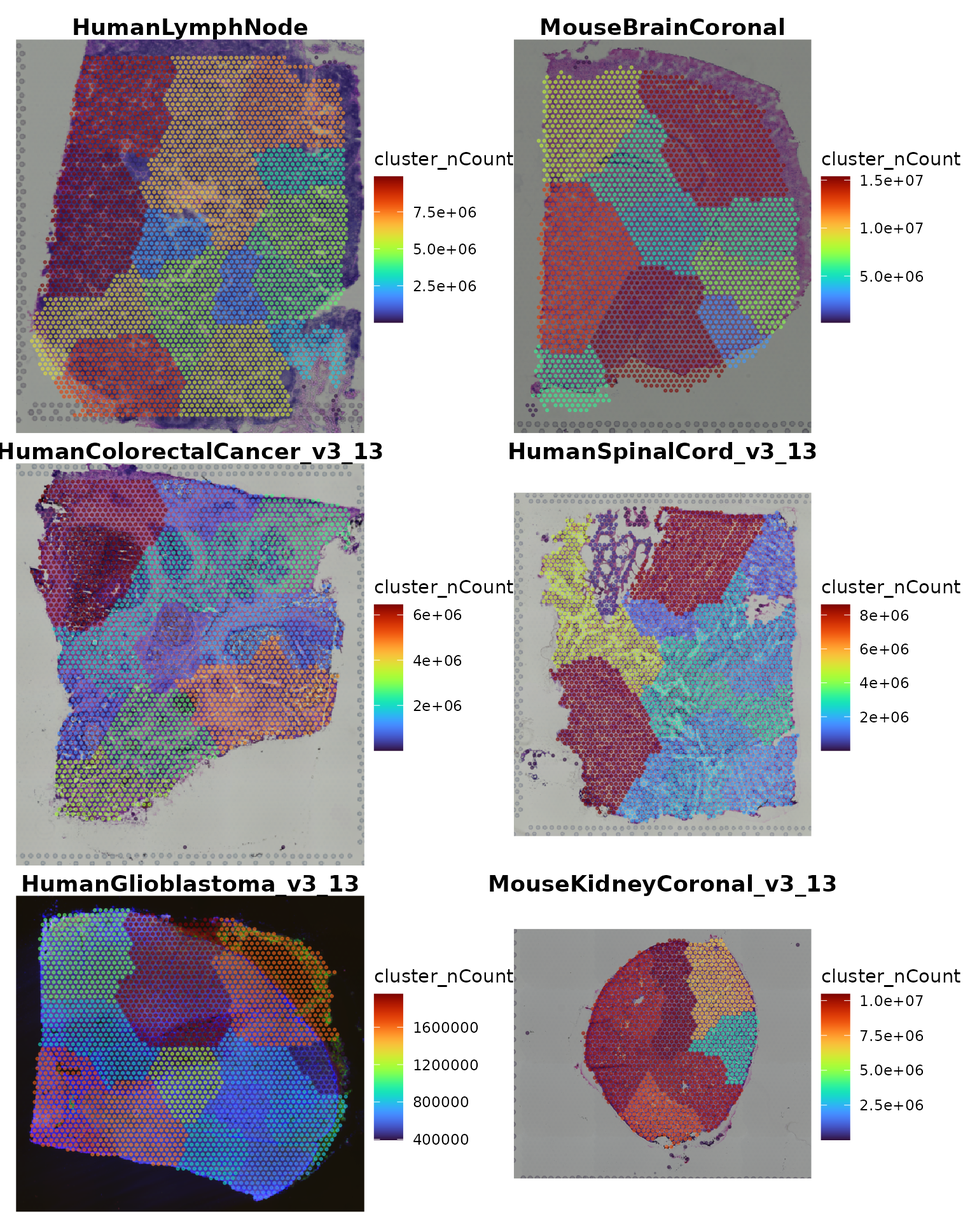
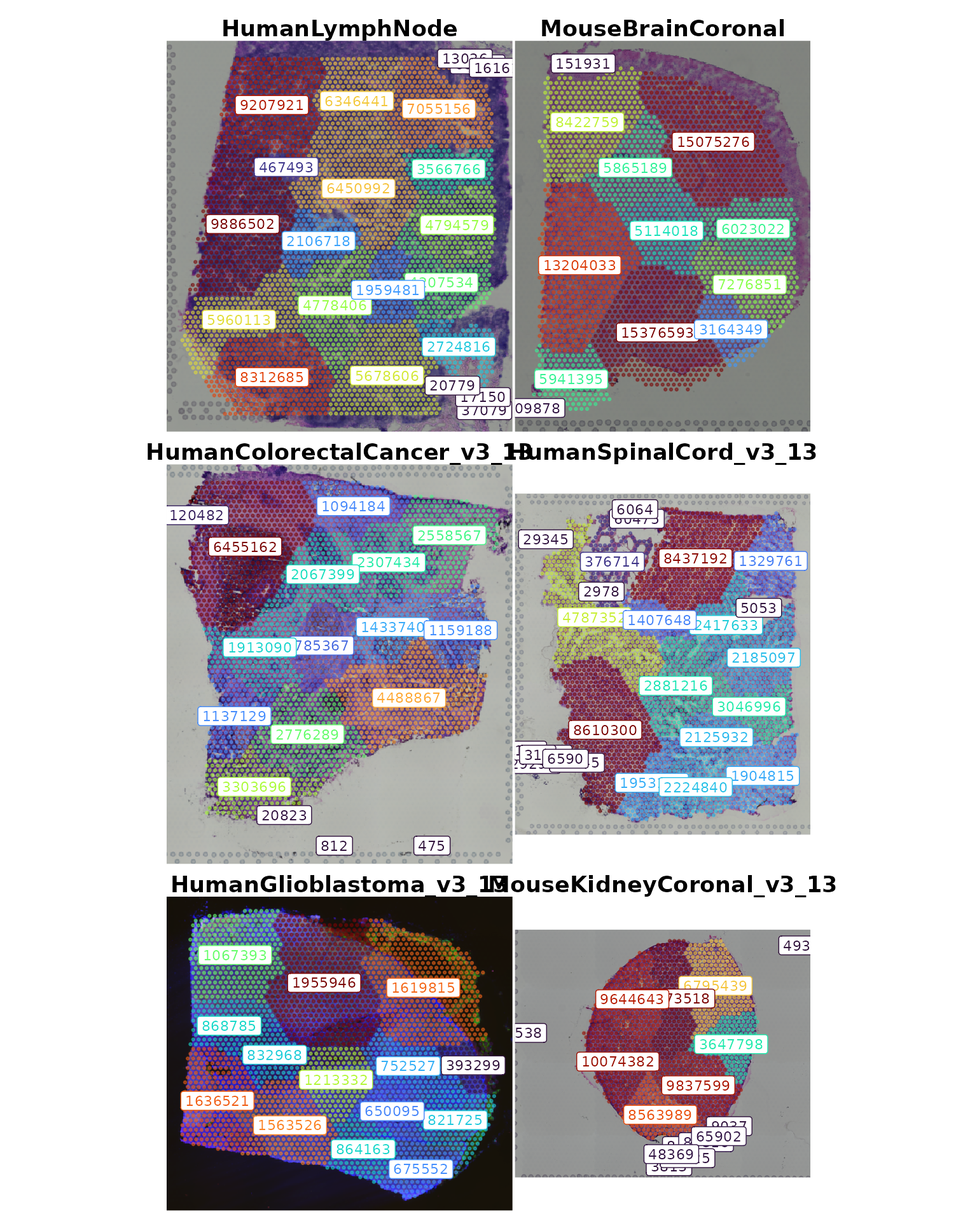
Deploying to gh-pages from @ Sanin-Lab/SpotGraphs@6cec9ab61a705c6ec7c7e6712106beb7f23dd2fe 🚀

diff --git a/articles/ThresholdTests.html b/articles/ThresholdTests.html
@@ -159,7 +159,11 @@ distributions<a class="anchor" aria-label="anchor" href="#load-several-datasets-
 <span>    </span>
 <span>    <span class="va">plt</span> <span class="op">=</span> <span class="va">plt</span> <span class="op">+</span></span>
 <span>      <span class="fu"><a href="https://ggplot2.tidyverse.org/reference/geom_text.html" class="external-link">geom_label</a></span><span class="op">(</span>data <span class="op">=</span> <span class="va">df.labels</span>, </span>
-<span>                 <span class="fu"><a href="https://ggplot2.tidyverse.org/reference/aes_.html" class="external-link">aes_string</a></span><span class="op">(</span>x<span class="op">=</span><span class="st">'x_axis'</span>, y<span class="op">=</span><span class="st">'y_axis'</span>, label <span class="op">=</span> <span class="va">feature</span>, color<span class="op">=</span><span class="va">feature</span><span class="op">)</span><span class="op">)</span></span>
+<span>                 size <span class="op">=</span> <span class="fl">3</span>,</span>
+<span>                 <span class="fu"><a href="https://ggplot2.tidyverse.org/reference/aes_.html" class="external-link">aes_string</a></span><span class="op">(</span>x<span class="op">=</span><span class="st">'x_axis'</span>,</span>
+<span>                            y<span class="op">=</span><span class="st">'y_axis'</span>, </span>
+<span>                            label <span class="op">=</span> <span class="va">feature</span>, </span>
+<span>                            color<span class="op">=</span><span class="va">feature</span><span class="op">)</span><span class="op">)</span></span>
 <span>  <span class="op">}</span></span>
 <span>  <span class="kw"><a href="https://rdrr.io/r/base/function.html" class="external-link">return</a></span><span class="op">(</span><span class="va">plt</span><span class="op">)</span></span>
 <span><span class="op">}</span></span></code></pre></div>
@@ -169,96 +173,116 @@ distributions<a class="anchor" aria-label="anchor" href="#load-several-datasets-
 </h3>
 <div class="sourceCode" id="cb6"><pre class="downlit sourceCode r">
 <code class="sourceCode R"><span><span class="va">plt.ncount</span> <span class="op">=</span> <span class="fu"><a href="https://rdrr.io/r/base/lapply.html" class="external-link">lapply</a></span><span class="op">(</span><span class="fu"><a href="https://rdrr.io/r/base/names.html" class="external-link">names</a></span><span class="op">(</span><span class="va">spe.ls</span><span class="op">)</span>, <span class="kw">function</span><span class="op">(</span><span class="va">ds.name</span><span class="op">)</span> <span class="op">{</span></span>
-<span>  <span class="fu">ImageFeature</span><span class="op">(</span><span class="va">spe.ls</span><span class="op">[[</span><span class="va">ds.name</span><span class="op">]</span><span class="op">]</span>, feature <span class="op">=</span> <span class="st">'cluster_nCount'</span>, label <span class="op">=</span> <span class="cn">F</span><span class="op">)</span> <span class="op">+</span></span>
+<span>  <span class="fu">ImageFeature</span><span class="op">(</span><span class="va">spe.ls</span><span class="op">[[</span><span class="va">ds.name</span><span class="op">]</span><span class="op">]</span>, feature <span class="op">=</span> <span class="st">'cluster_nCount'</span>, label <span class="op">=</span> <span class="cn">T</span><span class="op">)</span> <span class="op">+</span></span>
 <span>    <span class="fu"><a href="https://ggplot2.tidyverse.org/reference/labs.html" class="external-link">ggtitle</a></span><span class="op">(</span><span class="va">ds.name</span><span class="op">)</span> <span class="op">+</span></span>
-<span>    <span class="fu"><a href="https://ggplot2.tidyverse.org/reference/theme.html" class="external-link">theme</a></span><span class="op">(</span>plot.title <span class="op">=</span> <span class="fu"><a href="https://ggplot2.tidyverse.org/reference/element.html" class="external-link">element_text</a></span><span class="op">(</span>hjust <span class="op">=</span> <span class="fl">0.5</span>, face <span class="op">=</span> <span class="st">'bold'</span><span class="op">)</span><span class="op">)</span></span>
+<span>    <span class="fu"><a href="https://ggplot2.tidyverse.org/reference/theme.html" class="external-link">theme</a></span><span class="op">(</span>plot.title <span class="op">=</span> <span class="fu"><a href="https://ggplot2.tidyverse.org/reference/element.html" class="external-link">element_text</a></span><span class="op">(</span>hjust <span class="op">=</span> <span class="fl">0.5</span>, face <span class="op">=</span> <span class="st">'bold'</span><span class="op">)</span>,</span>
+<span>          legend.position <span class="op">=</span> <span class="st">'none'</span>,</span>
+<span>          plot.margin <span class="op">=</span> <span class="fu"><a href="https://ggplot2.tidyverse.org/reference/element.html" class="external-link">margin</a></span><span class="op">(</span><span class="fu"><a href="https://rdrr.io/r/base/rep.html" class="external-link">rep</a></span><span class="op">(</span><span class="fl">0.75</span>,<span class="fl">4</span><span class="op">)</span>,<span class="st">'cm'</span><span class="op">)</span><span class="op">)</span></span>
 <span><span class="op">}</span><span class="op">)</span></span>
 <span></span>
 <span><span class="fu"><a href="https://patchwork.data-imaginist.com/reference/wrap_plots.html" class="external-link">wrap_plots</a></span><span class="op">(</span><span class="va">plt.ncount</span>, ncol <span class="op">=</span> <span class="fl">2</span><span class="op">)</span></span></code></pre></div>
 <p><img src="ThresholdTests_files/figure-html/Plot%20counts%20on%20tissue%20images-1.png" width="768"></p>
 </div>
 <div class="section level3">
-<h3 id="extract-cluster_ncount-per-dataset">Extract cluster_nCount per dataset<a class="anchor" aria-label="anchor" href="#extract-cluster_ncount-per-dataset"></a>
-</h3>
-<div class="sourceCode" id="cb7"><pre class="downlit sourceCode r">
-<code class="sourceCode R"><span><span class="va">cluster_nCount.ls</span> <span class="op">=</span> <span class="fu"><a href="https://rdrr.io/r/base/lapply.html" class="external-link">lapply</a></span><span class="op">(</span><span class="va">res.ls</span>, <span class="kw">function</span><span class="op">(</span><span class="va">res</span><span class="op">)</span> <span class="op">{</span></span>
-<span>  <span class="fu"><a href="https://rdrr.io/r/base/unique.html" class="external-link">unique</a></span><span class="op">(</span><span class="va">res</span><span class="op">$</span><span class="va">cluster_nCount</span><span class="op">)</span></span>
-<span><span class="op">}</span><span class="op">)</span></span></code></pre></div>
-</div>
-<div class="section level3">
-<h3 id="plot-density-distributions-for-each-slide">Plot density distributions for each slide<a class="anchor" aria-label="anchor" href="#plot-density-distributions-for-each-slide"></a>
-</h3>
-<div class="sourceCode" id="cb8"><pre class="downlit sourceCode r">
-<code class="sourceCode R"><span><span class="va">den.ls</span> <span class="op">=</span> <span class="fu"><a href="https://rdrr.io/r/base/lapply.html" class="external-link">lapply</a></span><span class="op">(</span><span class="va">cluster_nCount.ls</span>, <span class="kw">function</span><span class="op">(</span><span class="va">xx</span><span class="op">)</span> <span class="op">{</span></span>
-<span>  <span class="va">den</span> <span class="op">=</span> <span class="fu"><a href="https://rdrr.io/r/stats/density.html" class="external-link">density</a></span><span class="op">(</span><span class="fu"><a href="https://rdrr.io/r/base/Log.html" class="external-link">log10</a></span><span class="op">(</span><span class="va">xx</span><span class="op">)</span><span class="op">)</span></span>
-<span><span class="op">}</span><span class="op">)</span></span>
-<span></span>
-<span><span class="va">density_plots</span> <span class="op">=</span> <span class="fu"><a href="https://rdrr.io/r/base/lapply.html" class="external-link">lapply</a></span><span class="op">(</span><span class="fu"><a href="https://rdrr.io/r/base/names.html" class="external-link">names</a></span><span class="op">(</span><span class="va">den.ls</span><span class="op">)</span>, <span class="kw">function</span><span class="op">(</span><span class="va">ds.name</span><span class="op">)</span> <span class="op">{</span></span>
-<span>  <span class="va">den</span> <span class="op">=</span> <span class="va">den.ls</span><span class="op">[[</span><span class="va">ds.name</span><span class="op">]</span><span class="op">]</span></span>
-<span>  <span class="va">df</span> <span class="op">=</span> <span class="fu"><a href="https://rdrr.io/r/base/data.frame.html" class="external-link">data.frame</a></span><span class="op">(</span>x <span class="op">=</span> <span class="va">den</span><span class="op">$</span><span class="va">x</span>, y <span class="op">=</span> <span class="va">den</span><span class="op">$</span><span class="va">y</span><span class="op">)</span></span>
-<span>  <span class="fu"><a href="https://ggplot2.tidyverse.org/reference/ggplot.html" class="external-link">ggplot</a></span><span class="op">(</span><span class="va">df</span>, <span class="fu"><a href="https://ggplot2.tidyverse.org/reference/aes.html" class="external-link">aes</a></span><span class="op">(</span>x <span class="op">=</span> <span class="va">x</span>, y <span class="op">=</span> <span class="va">y</span><span class="op">)</span><span class="op">)</span> <span class="op">+</span></span>
-<span>    <span class="fu"><a href="https://ggplot2.tidyverse.org/reference/geom_path.html" class="external-link">geom_line</a></span><span class="op">(</span><span class="op">)</span> <span class="op">+</span></span>
-<span>    <span class="fu"><a href="https://ggplot2.tidyverse.org/reference/labs.html" class="external-link">ggtitle</a></span><span class="op">(</span><span class="va">ds.name</span><span class="op">)</span> <span class="op">+</span></span>
-<span>    <span class="fu"><a href="https://ggplot2.tidyverse.org/reference/ggtheme.html" class="external-link">theme_bw</a></span><span class="op">(</span><span class="op">)</span> <span class="op">+</span></span>
-<span>    <span class="fu"><a href="https://ggplot2.tidyverse.org/reference/theme.html" class="external-link">theme</a></span><span class="op">(</span>plot.title <span class="op">=</span> <span class="fu"><a href="https://ggplot2.tidyverse.org/reference/element.html" class="external-link">element_text</a></span><span class="op">(</span>hjust <span class="op">=</span> <span class="fl">0.5</span>, face <span class="op">=</span> <span class="st">'bold'</span><span class="op">)</span><span class="op">)</span></span>
-<span><span class="op">}</span><span class="op">)</span></span>
-<span></span>
-<span><span class="fu"><a href="https://patchwork.data-imaginist.com/reference/wrap_plots.html" class="external-link">wrap_plots</a></span><span class="op">(</span><span class="va">density_plots</span>, ncol <span class="op">=</span> <span class="fl">2</span><span class="op">)</span></span></code></pre></div>
-<p><img src="ThresholdTests_files/figure-html/unnamed-chunk-3-1.png" width="672"></p>
-</div>
-<div class="section level3">
 <h3 id="calculate-intervals-with-various-strategies">Calculate intervals with various strategies<a class="anchor" aria-label="anchor" href="#calculate-intervals-with-various-strategies"></a>
 </h3>
-<div class="sourceCode" id="cb9"><pre class="downlit sourceCode r">
-<code class="sourceCode R"><span></span>
-<span><span class="co"># Using 5th and 75th percentiles as min/max</span></span>
-<span><span class="va">interval_tests</span> <span class="op">=</span> <span class="fu"><a href="https://rdrr.io/r/base/lapply.html" class="external-link">lapply</a></span><span class="op">(</span><span class="va">den.ls</span>, <span class="kw">function</span><span class="op">(</span><span class="va">den</span><span class="op">)</span> <span class="op">{</span></span>
-<span>  <span class="va">int.perc</span> <span class="op">=</span> <span class="fu"><a href="https://rdrr.io/r/base/c.html" class="external-link">c</a></span><span class="op">(</span><span class="fu"><a href="https://rdrr.io/r/stats/quantile.html" class="external-link">quantile</a></span><span class="op">(</span><span class="va">den</span><span class="op">$</span><span class="va">x</span>, <span class="fl">0.05</span><span class="op">)</span>, <span class="fu"><a href="https://rdrr.io/r/stats/quantile.html" class="external-link">quantile</a></span><span class="op">(</span><span class="va">den</span><span class="op">$</span><span class="va">x</span>, <span class="fl">0.75</span><span class="op">)</span><span class="op">)</span></span>
-<span>  <span class="va">int.mean</span> <span class="op">=</span> <span class="fu"><a href="https://rdrr.io/r/base/c.html" class="external-link">c</a></span><span class="op">(</span><span class="fl">0</span>, <span class="fu"><a href="https://rdrr.io/r/base/mean.html" class="external-link">mean</a></span><span class="op">(</span><span class="va">den</span><span class="op">$</span><span class="va">x</span><span class="op">)</span><span class="op">)</span></span>
-<span>  </span>
-<span>  <span class="co"># thres.perc = approxfun(den$x, den$y) %&gt;% optimise(interval=int.perc)</span></span>
-<span>  <span class="co"># thres.perc = 10^(thres.perc$minimum)</span></span>
-<span>  <span class="co"># </span></span>
-<span>  <span class="co"># thres.mean = approxfun(den$x, den$y) %&gt;% optimise(interval=int.mean)</span></span>
-<span>  <span class="co"># thres.mean = 10^(thres.mean$minimum)</span></span>
-<span>  </span>
-<span>  <span class="va">df</span> <span class="op">=</span> <span class="fu"><a href="https://rdrr.io/r/base/data.frame.html" class="external-link">data.frame</a></span><span class="op">(</span>x <span class="op">=</span> <span class="va">den</span><span class="op">$</span><span class="va">x</span>, y <span class="op">=</span> <span class="va">den</span><span class="op">$</span><span class="va">y</span><span class="op">)</span></span>
-<span>  <span class="va">plt.base</span> <span class="op">=</span> <span class="fu"><a href="https://ggplot2.tidyverse.org/reference/ggplot.html" class="external-link">ggplot</a></span><span class="op">(</span><span class="va">df</span>, <span class="fu"><a href="https://ggplot2.tidyverse.org/reference/aes.html" class="external-link">aes</a></span><span class="op">(</span>x <span class="op">=</span> <span class="va">x</span>, y <span class="op">=</span> <span class="va">y</span><span class="op">)</span><span class="op">)</span> <span class="op">+</span></span>
-<span>    <span class="fu"><a href="https://ggplot2.tidyverse.org/reference/geom_path.html" class="external-link">geom_line</a></span><span class="op">(</span><span class="op">)</span> <span class="op">+</span></span>
-<span>    <span class="fu"><a href="https://ggplot2.tidyverse.org/reference/coord_cartesian.html" class="external-link">coord_cartesian</a></span><span class="op">(</span>xlim <span class="op">=</span> <span class="fu"><a href="https://rdrr.io/r/base/c.html" class="external-link">c</a></span><span class="op">(</span><span class="fl">0</span>, <span class="cn">NA</span><span class="op">)</span><span class="op">)</span> <span class="op">+</span></span>
-<span>    <span class="fu"><a href="https://ggplot2.tidyverse.org/reference/ggtheme.html" class="external-link">theme_bw</a></span><span class="op">(</span><span class="op">)</span> <span class="op">+</span></span>
-<span>    <span class="fu"><a href="https://ggplot2.tidyverse.org/reference/theme.html" class="external-link">theme</a></span><span class="op">(</span>plot.title <span class="op">=</span> <span class="fu"><a href="https://ggplot2.tidyverse.org/reference/element.html" class="external-link">element_text</a></span><span class="op">(</span>hjust <span class="op">=</span> <span class="fl">0.5</span>, face <span class="op">=</span> <span class="st">'bold'</span><span class="op">)</span>,</span>
-<span>          plot.subtitle <span class="op">=</span> <span class="fu"><a href="https://ggplot2.tidyverse.org/reference/element.html" class="external-link">element_text</a></span><span class="op">(</span>hjust <span class="op">=</span> <span class="fl">0.5</span><span class="op">)</span><span class="op">)</span></span>
-<span>  </span>
-<span>  <span class="va">plt.perc</span> <span class="op">=</span> <span class="va">plt.base</span> <span class="op">+</span> </span>
-<span>    <span class="fu"><a href="https://ggplot2.tidyverse.org/reference/geom_abline.html" class="external-link">geom_vline</a></span><span class="op">(</span>xintercept <span class="op">=</span> <span class="va">int.perc</span>, color <span class="op">=</span> <span class="st">'red'</span><span class="op">)</span></span>
-<span>    <span class="co"># ggtitle(label = 'percentiles',</span></span>
-<span>    <span class="co">#         subtitle = thres.perc)</span></span>
-<span>  <span class="va">plt.mean</span> <span class="op">=</span> <span class="va">plt.base</span> <span class="op">+</span> </span>
-<span>    <span class="fu"><a href="https://ggplot2.tidyverse.org/reference/geom_abline.html" class="external-link">geom_vline</a></span><span class="op">(</span>xintercept <span class="op">=</span> <span class="va">int.mean</span>, color <span class="op">=</span> <span class="st">'red'</span><span class="op">)</span></span>
-<span>    <span class="co"># ggtitle(label = 'mean',</span></span>
-<span>    <span class="co">#         subtitle = thres.mean)</span></span>
-<span>  <span class="kw"><a href="https://rdrr.io/r/base/function.html" class="external-link">return</a></span><span class="op">(</span><span class="fu"><a href="https://patchwork.data-imaginist.com/reference/wrap_plots.html" class="external-link">wrap_plots</a></span><span class="op">(</span><span class="va">plt.perc</span>, <span class="va">plt.mean</span><span class="op">)</span><span class="op">)</span></span>
+<div class="sourceCode" id="cb7"><pre class="downlit sourceCode r">
+<code class="sourceCode R"><span><span class="co"># get count densities of each slide</span></span>
+<span><span class="va">den.ls</span> <span class="op">=</span> <span class="fu"><a href="https://rdrr.io/r/base/lapply.html" class="external-link">lapply</a></span><span class="op">(</span><span class="va">res.ls</span>, <span class="kw">function</span><span class="op">(</span><span class="va">res</span><span class="op">)</span> <span class="op">{</span></span>
+<span>  <span class="va">nCount</span> <span class="op">=</span> <span class="fu"><a href="https://rdrr.io/r/base/unique.html" class="external-link">unique</a></span><span class="op">(</span><span class="va">res</span><span class="op">$</span><span class="va">cluster_nCount</span><span class="op">)</span></span>
+<span>  <span class="va">den</span> <span class="op">=</span> <span class="fu"><a href="https://rdrr.io/r/stats/density.html" class="external-link">density</a></span><span class="op">(</span><span class="fu"><a href="https://rdrr.io/r/base/Log.html" class="external-link">log10</a></span><span class="op">(</span><span class="va">nCount</span><span class="op">)</span><span class="op">)</span></span>
+<span>  <span class="kw"><a href="https://rdrr.io/r/base/function.html" class="external-link">return</a></span><span class="op">(</span><span class="va">den</span><span class="op">)</span></span>
 <span><span class="op">}</span><span class="op">)</span></span>
 <span></span>
-<span><span class="fu"><a href="https://patchwork.data-imaginist.com/reference/wrap_plots.html" class="external-link">wrap_plots</a></span><span class="op">(</span><span class="va">interval_tests</span>, ncol <span class="op">=</span> <span class="fl">2</span><span class="op">)</span></span>
+<span><span class="co"># calculate different thresholds for each slide</span></span>
+<span><span class="va">plt.tests</span> <span class="op">=</span> <span class="fu"><a href="https://rdrr.io/r/base/list.html" class="external-link">list</a></span><span class="op">(</span><span class="op">)</span></span>
+<span><span class="va">thres.perc.ls</span> <span class="op">=</span> <span class="fu"><a href="https://rdrr.io/r/base/list.html" class="external-link">list</a></span><span class="op">(</span><span class="op">)</span></span>
+<span><span class="va">thres.fixed.ls</span> <span class="op">=</span> <span class="fu"><a href="https://rdrr.io/r/base/list.html" class="external-link">list</a></span><span class="op">(</span><span class="op">)</span></span>
 <span></span>
+<span><span class="kw">for</span> <span class="op">(</span><span class="va">ds.name</span> <span class="kw">in</span> <span class="fu"><a href="https://rdrr.io/r/base/names.html" class="external-link">names</a></span><span class="op">(</span><span class="va">den.ls</span><span class="op">)</span><span class="op">)</span> <span class="op">{</span></span>
+<span>  <span class="va">den</span> <span class="op">=</span> <span class="va">den.ls</span><span class="op">[[</span><span class="va">ds.name</span><span class="op">]</span><span class="op">]</span></span>
+<span>  </span>
+<span>  <span class="co"># quantile window</span></span>
+<span>  <span class="va">int.perc</span> <span class="op">=</span> <span class="fu"><a href="https://rdrr.io/r/base/c.html" class="external-link">c</a></span><span class="op">(</span><span class="fu">spatstat.univar</span><span class="fu">::</span><span class="fu"><a href="https://rdrr.io/pkg/spatstat.univar/man/quantile.density.html" class="external-link">quantile.density</a></span><span class="op">(</span><span class="va">den</span>, <span class="fl">0.05</span><span class="op">)</span>, </span>
+<span>               <span class="fu">spatstat.univar</span><span class="fu">::</span><span class="fu"><a href="https://rdrr.io/pkg/spatstat.univar/man/quantile.density.html" class="external-link">quantile.density</a></span><span class="op">(</span><span class="va">den</span>, <span class="fl">0.75</span><span class="op">)</span><span class="op">)</span></span>
+<span>  <span class="va">thres.perc.ls</span><span class="op">[[</span><span class="va">ds.name</span><span class="op">]</span><span class="op">]</span> <span class="op">=</span> <span class="fu"><a href="https://rdrr.io/r/stats/approxfun.html" class="external-link">approxfun</a></span><span class="op">(</span><span class="va">den</span><span class="op">$</span><span class="va">x</span>, <span class="va">den</span><span class="op">$</span><span class="va">y</span><span class="op">)</span> <span class="op"><a href="../reference/pipe.html">%&gt;%</a></span> <span class="fu"><a href="https://rdrr.io/r/stats/optimize.html" class="external-link">optimise</a></span><span class="op">(</span>interval<span class="op">=</span><span class="va">int.perc</span><span class="op">)</span></span>
+<span>  <span class="va">thres.perc.ls</span><span class="op">[[</span><span class="va">ds.name</span><span class="op">]</span><span class="op">]</span> <span class="op">=</span> <span class="fl">10</span><span class="op">^</span><span class="op">(</span><span class="va">thres.perc.ls</span><span class="op">[[</span><span class="va">ds.name</span><span class="op">]</span><span class="op">]</span><span class="op">$</span><span class="va">minimum</span><span class="op">)</span></span>
+<span>  </span>
+<span>  <span class="co"># fixed window</span></span>
+<span>  <span class="va">int.fixed</span> <span class="op">=</span> <span class="fu"><a href="https://rdrr.io/r/base/c.html" class="external-link">c</a></span><span class="op">(</span><span class="fu"><a href="https://rdrr.io/r/stats/quantile.html" class="external-link">quantile</a></span><span class="op">(</span><span class="va">den</span><span class="op">$</span><span class="va">x</span>, <span class="fl">0.05</span><span class="op">)</span>, <span class="fu"><a href="https://rdrr.io/r/stats/quantile.html" class="external-link">quantile</a></span><span class="op">(</span><span class="va">den</span><span class="op">$</span><span class="va">x</span>, <span class="fl">0.75</span><span class="op">)</span><span class="op">)</span></span>
+<span>  <span class="va">thres.fixed.ls</span><span class="op">[[</span><span class="va">ds.name</span><span class="op">]</span><span class="op">]</span> <span class="op">=</span> <span class="fu"><a href="https://rdrr.io/r/stats/approxfun.html" class="external-link">approxfun</a></span><span class="op">(</span><span class="va">den</span><span class="op">$</span><span class="va">x</span>, <span class="va">den</span><span class="op">$</span><span class="va">y</span><span class="op">)</span> <span class="op"><a href="../reference/pipe.html">%&gt;%</a></span> <span class="fu"><a href="https://rdrr.io/r/stats/optimize.html" class="external-link">optimise</a></span><span class="op">(</span>interval<span class="op">=</span><span class="va">int.fixed</span><span class="op">)</span></span>
+<span>  <span class="va">thres.fixed.ls</span><span class="op">[[</span><span class="va">ds.name</span><span class="op">]</span><span class="op">]</span> <span class="op">=</span> <span class="fl">10</span><span class="op">^</span><span class="op">(</span><span class="va">thres.fixed.ls</span><span class="op">[[</span><span class="va">ds.name</span><span class="op">]</span><span class="op">]</span><span class="op">$</span><span class="va">minimum</span><span class="op">)</span></span>
+<span>  </span>
+<span>  <span class="co"># create data frame for plotting</span></span>
+<span>  <span class="va">df</span> <span class="op">=</span> <span class="fu"><a href="https://rdrr.io/r/base/data.frame.html" class="external-link">data.frame</a></span><span class="op">(</span>x <span class="op">=</span> <span class="va">den</span><span class="op">$</span><span class="va">x</span>, y <span class="op">=</span> <span class="va">den</span><span class="op">$</span><span class="va">y</span><span class="op">)</span></span>
+<span>  </span>
+<span>  <span class="co"># create plots</span></span>
+<span>  <span class="va">plt.base</span> <span class="op">=</span> <span class="fu"><a href="https://ggplot2.tidyverse.org/reference/ggplot.html" class="external-link">ggplot</a></span><span class="op">(</span><span class="va">df</span>, <span class="fu"><a href="https://ggplot2.tidyverse.org/reference/aes.html" class="external-link">aes</a></span><span class="op">(</span>x <span class="op">=</span> <span class="va">x</span>, y <span class="op">=</span> <span class="va">y</span><span class="op">)</span><span class="op">)</span> <span class="op">+</span></span>
+<span>    <span class="fu"><a href="https://ggplot2.tidyverse.org/reference/geom_path.html" class="external-link">geom_line</a></span><span class="op">(</span><span class="op">)</span> <span class="op">+</span></span>
+<span>    <span class="fu"><a href="https://ggplot2.tidyverse.org/reference/ggtheme.html" class="external-link">theme_bw</a></span><span class="op">(</span><span class="op">)</span> <span class="op">+</span></span>
+<span>    <span class="fu"><a href="https://ggplot2.tidyverse.org/reference/theme.html" class="external-link">theme</a></span><span class="op">(</span>plot.title <span class="op">=</span> <span class="fu"><a href="https://ggplot2.tidyverse.org/reference/element.html" class="external-link">element_text</a></span><span class="op">(</span>hjust <span class="op">=</span> <span class="fl">0.5</span><span class="op">)</span><span class="op">)</span></span>
+<span>  </span>
+<span>  <span class="va">plt.perc</span> <span class="op">=</span> <span class="va">plt.base</span> <span class="op">+</span> </span>
+<span>    <span class="fu"><a href="https://ggplot2.tidyverse.org/reference/geom_abline.html" class="external-link">geom_vline</a></span><span class="op">(</span>xintercept <span class="op">=</span> <span class="va">int.perc</span>, color <span class="op">=</span> <span class="st">'red'</span><span class="op">)</span> <span class="op">+</span></span>
+<span>    <span class="fu"><a href="https://ggplot2.tidyverse.org/reference/geom_abline.html" class="external-link">geom_vline</a></span><span class="op">(</span>xintercept <span class="op">=</span> <span class="fu"><a href="https://rdrr.io/r/base/Log.html" class="external-link">log10</a></span><span class="op">(</span><span class="va">thres.perc.ls</span><span class="op">[[</span><span class="va">ds.name</span><span class="op">]</span><span class="op">]</span><span class="op">)</span>, color <span class="op">=</span> <span class="st">'blue'</span><span class="op">)</span> <span class="op">+</span></span>
+<span>    <span class="fu"><a href="https://ggplot2.tidyverse.org/reference/labs.html" class="external-link">ylab</a></span><span class="op">(</span><span class="va">ds.name</span><span class="op">)</span> <span class="op">+</span></span>
+<span>    <span class="fu"><a href="https://ggplot2.tidyverse.org/reference/labs.html" class="external-link">ggtitle</a></span><span class="op">(</span></span>
+<span>      label <span class="op">=</span> <span class="fu"><a href="https://rdrr.io/r/base/paste.html" class="external-link">paste</a></span><span class="op">(</span><span class="st">'thres w/ quantiles int:'</span>, </span>
+<span>                    <span class="fu"><a href="https://rdrr.io/r/base/Round.html" class="external-link">round</a></span><span class="op">(</span><span class="va">thres.perc.ls</span><span class="op">[[</span><span class="va">ds.name</span><span class="op">]</span><span class="op">]</span>, <span class="fl">2</span><span class="op">)</span><span class="op">)</span></span>
+<span>      <span class="op">)</span></span>
+<span>  <span class="va">plt.fixed</span> <span class="op">=</span> <span class="va">plt.base</span> <span class="op">+</span> </span>
+<span>    <span class="fu"><a href="https://ggplot2.tidyverse.org/reference/geom_abline.html" class="external-link">geom_vline</a></span><span class="op">(</span>xintercept <span class="op">=</span> <span class="va">int.fixed</span>, color <span class="op">=</span> <span class="st">'red'</span><span class="op">)</span> <span class="op">+</span></span>
+<span>    <span class="fu"><a href="https://ggplot2.tidyverse.org/reference/geom_abline.html" class="external-link">geom_vline</a></span><span class="op">(</span>xintercept <span class="op">=</span> <span class="fu"><a href="https://rdrr.io/r/base/Log.html" class="external-link">log10</a></span><span class="op">(</span><span class="va">thres.fixed.ls</span><span class="op">[[</span><span class="va">ds.name</span><span class="op">]</span><span class="op">]</span><span class="op">)</span>, color <span class="op">=</span> <span class="st">'blue'</span><span class="op">)</span> <span class="op">+</span></span>
+<span>    <span class="fu"><a href="https://ggplot2.tidyverse.org/reference/labs.html" class="external-link">ggtitle</a></span><span class="op">(</span></span>
+<span>      label <span class="op">=</span> <span class="fu"><a href="https://rdrr.io/r/base/paste.html" class="external-link">paste</a></span><span class="op">(</span><span class="st">'thres w/ fixed int:'</span>, </span>
+<span>                    <span class="fu"><a href="https://rdrr.io/r/base/Round.html" class="external-link">round</a></span><span class="op">(</span><span class="va">thres.fixed.ls</span><span class="op">[[</span><span class="va">ds.name</span><span class="op">]</span><span class="op">]</span>, <span class="fl">2</span><span class="op">)</span><span class="op">)</span></span>
+<span>      <span class="op">)</span> <span class="op">+</span></span>
+<span>    <span class="fu"><a href="https://ggplot2.tidyverse.org/reference/theme.html" class="external-link">theme</a></span><span class="op">(</span>axis.title.y <span class="op">=</span> <span class="fu"><a href="https://ggplot2.tidyverse.org/reference/element.html" class="external-link">element_blank</a></span><span class="op">(</span><span class="op">)</span><span class="op">)</span></span>
+<span>  </span>
+<span>  <span class="va">plt.tests</span><span class="op">[[</span><span class="va">ds.name</span><span class="op">]</span><span class="op">]</span> <span class="op">=</span> <span class="fu"><a href="https://patchwork.data-imaginist.com/reference/wrap_plots.html" class="external-link">wrap_plots</a></span><span class="op">(</span><span class="va">plt.perc</span>, <span class="va">plt.fixed</span><span class="op">)</span></span>
+<span>  </span>
+<span>  <span class="co"># rm(plt.base, plt.perc, plt.fixed, int.perc, int.fixed, df)</span></span>
+<span><span class="op">}</span></span>
 <span></span>
-<span><span class="co"># # helper to calculate threshold, given a vector of transcript counts</span></span>
-<span><span class="co"># get_threshold = function(cluster_nCount) {</span></span>
-<span><span class="co">#   # log the total counts per cluster to smooth out the density</span></span>
-<span><span class="co">#   den = density(log10(cluster_nCount))</span></span>
-<span><span class="co"># </span></span>
-<span><span class="co">#   # define an interval to check for local minima</span></span>
-<span><span class="co">#   int.min = quantile(den$x, 0.05) #previous value of 0 might be to low</span></span>
-<span><span class="co">#   int.max = quantile(den$x, 0.75) #maybe 3rd quantile?</span></span>
-<span><span class="co">#   interval = c(int.min, int.max)</span></span>
-<span><span class="co"># </span></span>
-<span><span class="co">#   # calculate local minima</span></span>
-<span><span class="co">#   thres = approxfun(den$x, den$y) %&gt;% optimise(interval=interval)</span></span>
-<span><span class="co">#   thres = 10^(thres$minimum)</span></span>
-<span><span class="co">#   return(thres)</span></span>
-<span><span class="co"># }</span></span></code></pre></div>
+<span><span class="fu"><a href="https://patchwork.data-imaginist.com/reference/wrap_plots.html" class="external-link">wrap_plots</a></span><span class="op">(</span><span class="va">plt.tests</span>, ncol <span class="op">=</span> <span class="fl">1</span><span class="op">)</span></span></code></pre></div>
+<p><img src="ThresholdTests_files/figure-html/unnamed-chunk-2-1.png" width="672"></p>
+</div>
+<div class="section level3">
+<h3 id="plot-which-spots-would-be-filtered-out-with-each-threshold">Plot which spots would be filtered out with each threshold<a class="anchor" aria-label="anchor" href="#plot-which-spots-would-be-filtered-out-with-each-threshold"></a>
+</h3>
+<div class="sourceCode" id="cb8"><pre class="downlit sourceCode r">
+<code class="sourceCode R"><span><span class="co"># add thresholds to each SpatialExperiment object</span></span>
+<span><span class="kw">for</span> <span class="op">(</span><span class="va">ds.name</span> <span class="kw">in</span> <span class="fu"><a href="https://rdrr.io/r/base/names.html" class="external-link">names</a></span><span class="op">(</span><span class="va">spe.ls</span><span class="op">)</span><span class="op">)</span> <span class="op">{</span></span>
+<span>  <span class="va">thres.perc</span> <span class="op">=</span> <span class="va">spe.ls</span><span class="op">[[</span><span class="va">ds.name</span><span class="op">]</span><span class="op">]</span><span class="op">$</span><span class="va">cluster_nCount</span> <span class="op">&gt;</span> <span class="va">thres.perc.ls</span><span class="op">[[</span><span class="va">ds.name</span><span class="op">]</span><span class="op">]</span></span>
+<span>  <span class="va">thres.fixed</span> <span class="op">=</span> <span class="va">spe.ls</span><span class="op">[[</span><span class="va">ds.name</span><span class="op">]</span><span class="op">]</span><span class="op">$</span><span class="va">cluster_nCount</span> <span class="op">&gt;</span> <span class="va">thres.fixed.ls</span><span class="op">[[</span><span class="va">ds.name</span><span class="op">]</span><span class="op">]</span></span>
+<span>  <span class="va">spe.ls</span><span class="op">[[</span><span class="va">ds.name</span><span class="op">]</span><span class="op">]</span><span class="op">$</span><span class="va">threshold.perc</span> <span class="op">=</span> <span class="va">thres.perc</span> <span class="op"><a href="../reference/pipe.html">%&gt;%</a></span> </span>
+<span>    <span class="fu"><a href="https://rdrr.io/r/base/ifelse.html" class="external-link">ifelse</a></span><span class="op">(</span><span class="st">'pass'</span>, <span class="st">'nopass'</span><span class="op">)</span> <span class="op"><a href="../reference/pipe.html">%&gt;%</a></span> </span>
+<span>    <span class="fu"><a href="https://rdrr.io/r/base/factor.html" class="external-link">factor</a></span><span class="op">(</span>levels <span class="op">=</span> <span class="fu"><a href="https://rdrr.io/r/base/c.html" class="external-link">c</a></span><span class="op">(</span><span class="st">'nopass'</span>, <span class="st">'pass'</span><span class="op">)</span><span class="op">)</span></span>
+<span>  <span class="va">spe.ls</span><span class="op">[[</span><span class="va">ds.name</span><span class="op">]</span><span class="op">]</span><span class="op">$</span><span class="va">threshold.fixed</span> <span class="op">=</span> <span class="va">thres.fixed</span> <span class="op"><a href="../reference/pipe.html">%&gt;%</a></span> </span>
+<span>    <span class="fu"><a href="https://rdrr.io/r/base/ifelse.html" class="external-link">ifelse</a></span><span class="op">(</span><span class="st">'pass'</span>, <span class="st">'nopass'</span><span class="op">)</span> <span class="op"><a href="../reference/pipe.html">%&gt;%</a></span> </span>
+<span>    <span class="fu"><a href="https://rdrr.io/r/base/factor.html" class="external-link">factor</a></span><span class="op">(</span>levels <span class="op">=</span> <span class="fu"><a href="https://rdrr.io/r/base/c.html" class="external-link">c</a></span><span class="op">(</span><span class="st">'nopass'</span>, <span class="st">'pass'</span><span class="op">)</span><span class="op">)</span></span>
+<span>  <span class="fu"><a href="https://rdrr.io/r/base/rm.html" class="external-link">rm</a></span><span class="op">(</span><span class="va">thres.perc</span>, <span class="va">thres.fixed</span><span class="op">)</span></span>
+<span><span class="op">}</span></span>
+<span></span>
+<span><span class="co"># create plots</span></span>
+<span><span class="va">plt.thresholds</span> <span class="op">=</span> <span class="fu"><a href="https://rdrr.io/r/base/lapply.html" class="external-link">lapply</a></span><span class="op">(</span><span class="fu"><a href="https://rdrr.io/r/base/names.html" class="external-link">names</a></span><span class="op">(</span><span class="va">spe.ls</span><span class="op">)</span>, <span class="kw">function</span><span class="op">(</span><span class="va">ds.name</span><span class="op">)</span> <span class="op">{</span></span>
+<span>  <span class="va">plt1</span> <span class="op">=</span> <span class="fu">ImageFeature</span><span class="op">(</span><span class="va">spe.ls</span><span class="op">[[</span><span class="va">ds.name</span><span class="op">]</span><span class="op">]</span>, feature <span class="op">=</span> <span class="st">'threshold.perc'</span>, label <span class="op">=</span> <span class="cn">F</span><span class="op">)</span> <span class="op">+</span></span>
+<span>    <span class="fu"><a href="https://ggplot2.tidyverse.org/reference/scale_manual.html" class="external-link">scale_color_manual</a></span><span class="op">(</span>values <span class="op">=</span> <span class="fu"><a href="https://rdrr.io/r/base/c.html" class="external-link">c</a></span><span class="op">(</span><span class="st">'red'</span>, <span class="st">'grey'</span><span class="op">)</span>, drop <span class="op">=</span> <span class="cn">F</span><span class="op">)</span> <span class="op">+</span></span>
+<span>    <span class="fu"><a href="https://ggplot2.tidyverse.org/reference/labs.html" class="external-link">ggtitle</a></span><span class="op">(</span><span class="va">ds.name</span><span class="op">)</span> <span class="op">+</span></span>
+<span>    <span class="fu"><a href="https://ggplot2.tidyverse.org/reference/theme.html" class="external-link">theme</a></span><span class="op">(</span>plot.title <span class="op">=</span> <span class="fu"><a href="https://ggplot2.tidyverse.org/reference/element.html" class="external-link">element_text</a></span><span class="op">(</span>hjust <span class="op">=</span> <span class="fl">0.5</span>, face <span class="op">=</span> <span class="st">'bold'</span><span class="op">)</span>,</span>
+<span>          legend.position <span class="op">=</span> <span class="st">'none'</span>, </span>
+<span>          plot.margin <span class="op">=</span> <span class="fu"><a href="https://ggplot2.tidyverse.org/reference/element.html" class="external-link">margin</a></span><span class="op">(</span><span class="fu"><a href="https://rdrr.io/r/base/rep.html" class="external-link">rep</a></span><span class="op">(</span><span class="fl">0.75</span>,<span class="fl">4</span><span class="op">)</span>,<span class="st">'cm'</span><span class="op">)</span><span class="op">)</span></span>
+<span>  <span class="va">plt2</span> <span class="op">=</span> <span class="fu">ImageFeature</span><span class="op">(</span><span class="va">spe.ls</span><span class="op">[[</span><span class="va">ds.name</span><span class="op">]</span><span class="op">]</span>, feature <span class="op">=</span> <span class="st">'threshold.fixed'</span>, label <span class="op">=</span> <span class="cn">F</span><span class="op">)</span> <span class="op">+</span></span>
+<span>    <span class="fu"><a href="https://ggplot2.tidyverse.org/reference/scale_manual.html" class="external-link">scale_color_manual</a></span><span class="op">(</span>values <span class="op">=</span> <span class="fu"><a href="https://rdrr.io/r/base/c.html" class="external-link">c</a></span><span class="op">(</span><span class="st">'red'</span>, <span class="st">'grey'</span><span class="op">)</span>, drop <span class="op">=</span> <span class="cn">F</span><span class="op">)</span> <span class="op">+</span></span>
+<span>    <span class="fu"><a href="https://ggplot2.tidyverse.org/reference/labs.html" class="external-link">ggtitle</a></span><span class="op">(</span><span class="va">ds.name</span><span class="op">)</span> <span class="op">+</span></span>
+<span>    <span class="fu"><a href="https://ggplot2.tidyverse.org/reference/theme.html" class="external-link">theme</a></span><span class="op">(</span>plot.title <span class="op">=</span> <span class="fu"><a href="https://ggplot2.tidyverse.org/reference/element.html" class="external-link">element_text</a></span><span class="op">(</span>hjust <span class="op">=</span> <span class="fl">0.5</span>, face <span class="op">=</span> <span class="st">'bold'</span><span class="op">)</span>,</span>
+<span>          legend.position <span class="op">=</span> <span class="st">'none'</span>, </span>
+<span>          plot.margin <span class="op">=</span> <span class="fu"><a href="https://ggplot2.tidyverse.org/reference/element.html" class="external-link">margin</a></span><span class="op">(</span><span class="fu"><a href="https://rdrr.io/r/base/rep.html" class="external-link">rep</a></span><span class="op">(</span><span class="fl">0.75</span>,<span class="fl">4</span><span class="op">)</span>,<span class="st">'cm'</span><span class="op">)</span><span class="op">)</span></span>
+<span>  <span class="kw"><a href="https://rdrr.io/r/base/function.html" class="external-link">return</a></span><span class="op">(</span><span class="fu"><a href="https://patchwork.data-imaginist.com/reference/wrap_plots.html" class="external-link">wrap_plots</a></span><span class="op">(</span><span class="va">plt1</span>, <span class="va">plt2</span>, ncol <span class="op">=</span> <span class="fl">2</span><span class="op">)</span><span class="op">)</span></span>
+<span><span class="op">}</span><span class="op">)</span></span>
+<span></span>
+<span><span class="fu"><a href="https://patchwork.data-imaginist.com/reference/wrap_plots.html" class="external-link">wrap_plots</a></span><span class="op">(</span><span class="va">plt.thresholds</span>, ncol <span class="op">=</span> <span class="fl">1</span><span class="op">)</span></span></code></pre></div>
+<p><img src="ThresholdTests_files/figure-html/unnamed-chunk-3-1.png" width="768"></p>
 </div>
 </div>
   </main><aside class="col-md-3"><nav id="toc" aria-label="Table of contents"><h2>On this page</h2>

diff --git a/articles/SpotGraphs.html b/articles/SpotGraphs.html
@@ -123,10 +123,10 @@ the spots on our slide.</p>
 <span></span>
 <span><span class="va">ig</span> <span class="op">=</span> <span class="fu"><a href="../reference/SpotGraph.html">SpotGraph</a></span><span class="op">(</span>coord <span class="op">=</span> <span class="va">coord</span><span class="op">)</span></span>
 <span><span class="va">ig</span></span>
-<span><span class="co">#&gt; IGRAPH 4741dd6 UNW- 1185 3189 -- </span></span>
+<span><span class="co">#&gt; IGRAPH dd892ca UNW- 1185 3189 -- </span></span>
 <span><span class="co">#&gt; + attr: name (v/c), coord_x (v/n), coord_y (v/n), is_boundary (v/l),</span></span>
 <span><span class="co">#&gt; | weight (e/n)</span></span>
-<span><span class="co">#&gt; + edges from 4741dd6 (vertex names):</span></span>
+<span><span class="co">#&gt; + edges from dd892ca (vertex names):</span></span>
 <span><span class="co">#&gt;  [1] AAACACCAATAACTGC-1--AGGCGGTTTGTCCCGC-1</span></span>
 <span><span class="co">#&gt;  [2] AAACACCAATAACTGC-1--CTCGTCGAGGGCTCAT-1</span></span>
 <span><span class="co">#&gt;  [3] AAACACCAATAACTGC-1--GAAACATAGGAAACAG-1</span></span>
